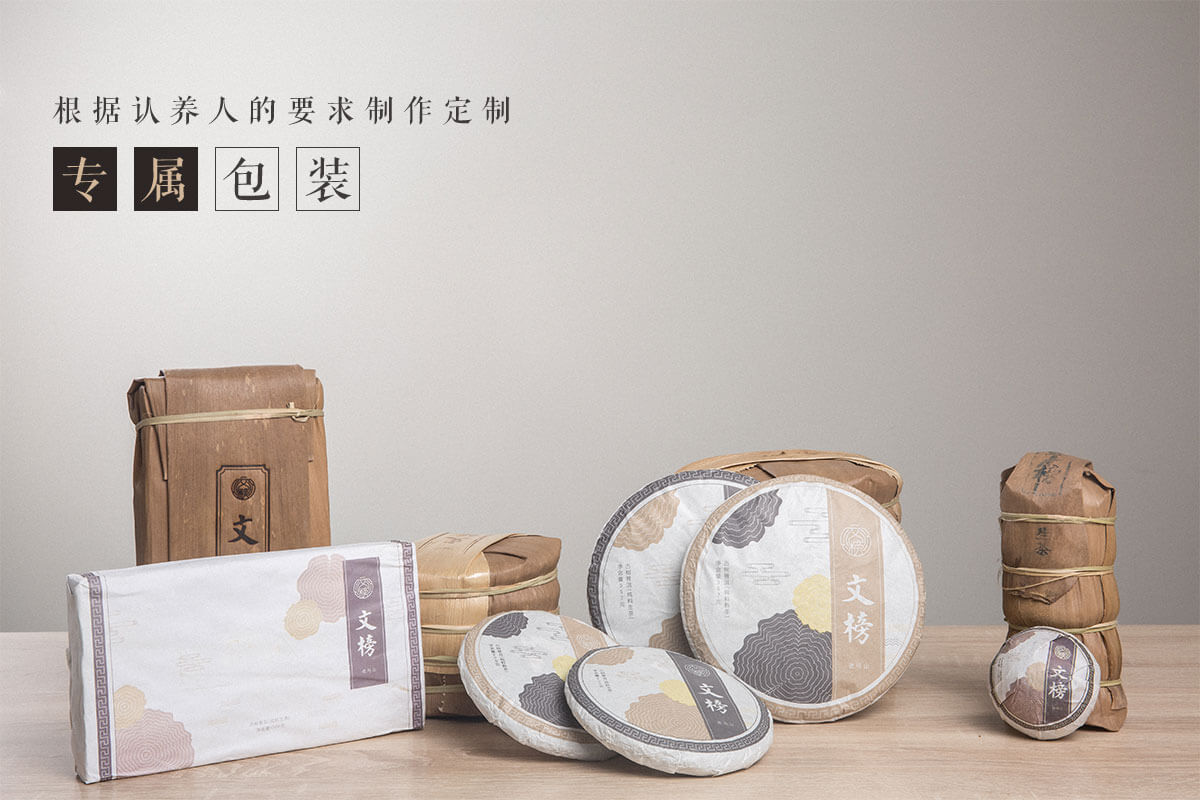
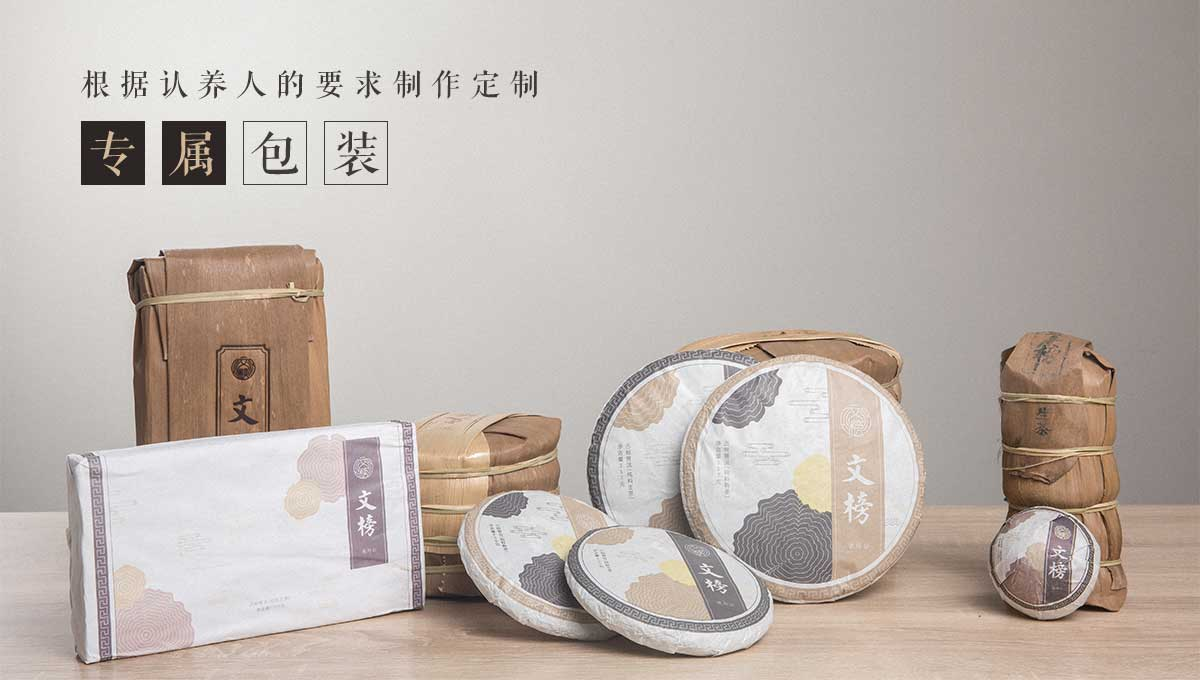
11111

Changed region(s): [[0.0, 0.3397, 1.0, 0.9882], [0.0308, 0.0926, 0.4625, 0.2779], [0.1233, 0.8647, 0.1542, 0.8956]]

diff --git a/frontend/web/css/style.css b/frontend/web/css/style.css
@@ -1837,25 +1837,25 @@ footer {
 
 .tea_introduce {
 	width: 100%;
-	height: 800px;
+	height: 680px;
 	min-width: 1200px;
 	background: #f7f8f8;
 }
 
 .introduce {
-	height: 800px;
+	height: 680px;
 }
 
 .introduce_main {
 	width: 100%;
-	height: 800px;
+	height: 680px;
 	float: left;
 	position: relative;
 }
 
 .introduce_main img {
 	width: 100%;
-	height: 800px;
+	height: 680px;
 }
 
 .introduce_main>h1 {
